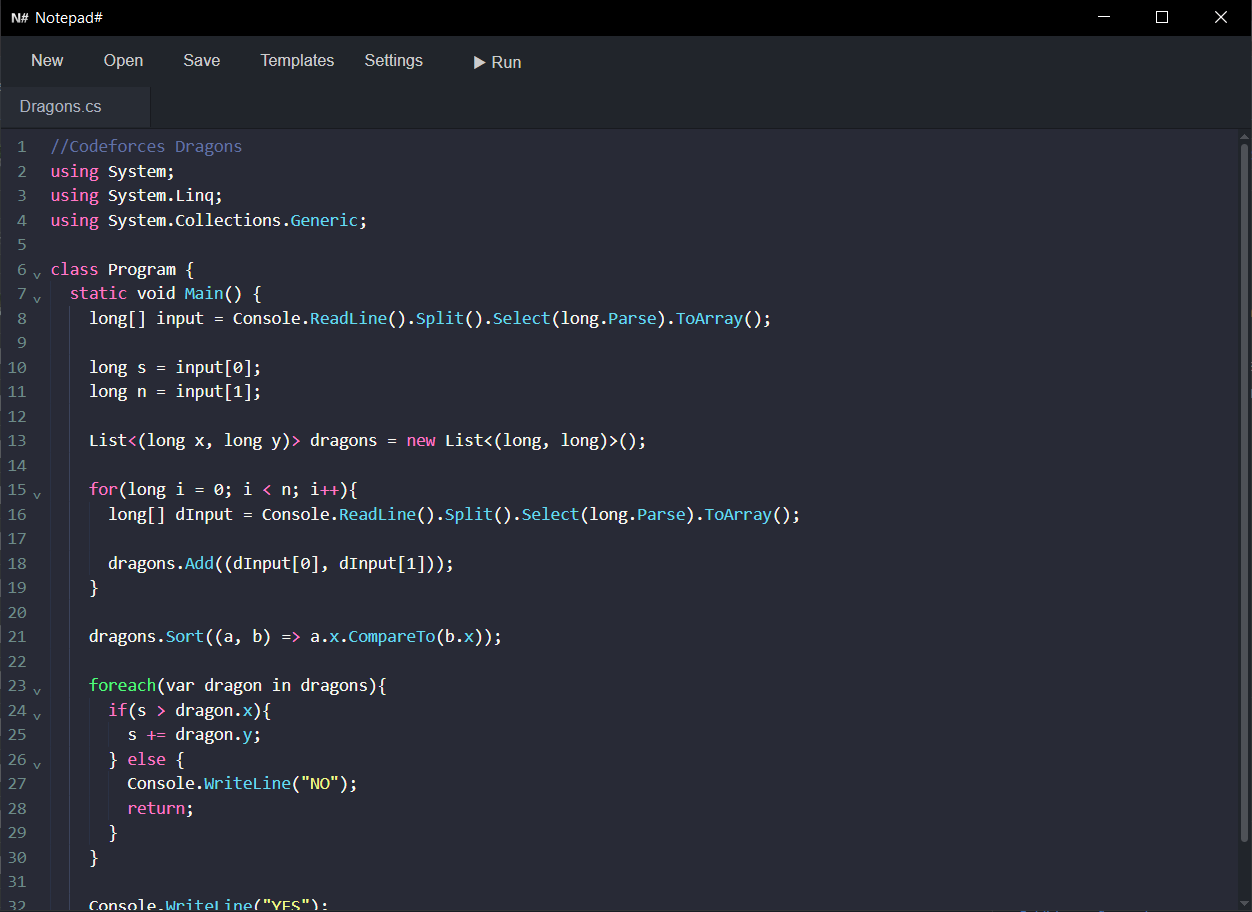
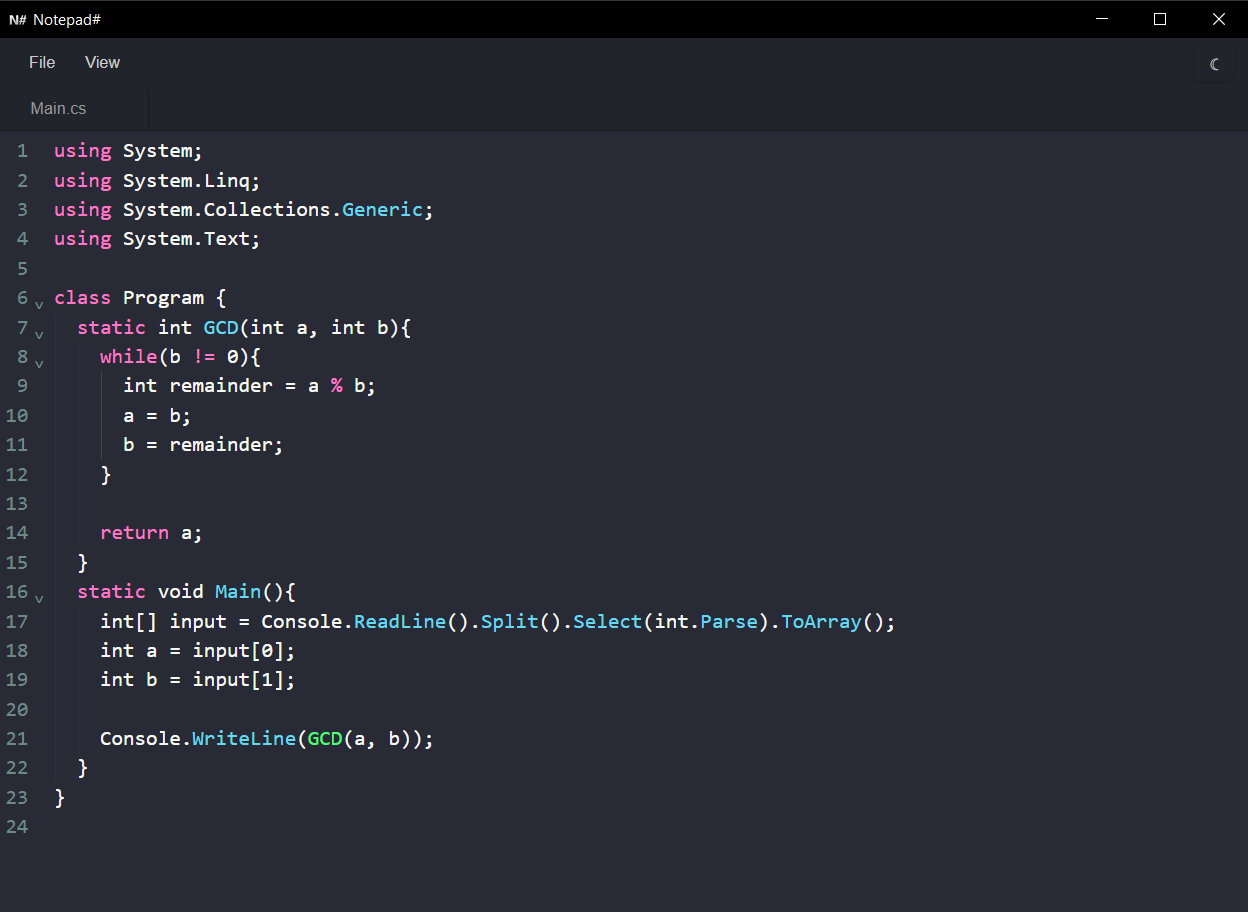
Update Final README for V.0.3.0

diff --git a/README.md b/README.md
@@ -1,27 +1,20 @@
 # Notepad-Sharp
 
-Notepad-Sharp is a lightweight desktop code notepad built with Vite, TypeScript and Tauri. It focuses on fast, distraction-free editing with multi-tab support, configurable templates, theme previews and a simple remote code runner powered by the public Piston API.
+Notepad# is a lightweight desktop code notepad built with Vite, TypeScript and Tauri. It focuses on fast, distraction-free editing with simple, familiar editor features and native file integration.
 
 ![Notepad-Sharp Preview](preview.png)
 
 Website: https://notepad-sharp.vercel.app/
 
-**Highlights & Features**
+## Features
 
-- Multi-tab editor with drag-to-reorder, rename, save status badges and per-tab cursor/scroll restore.
-- Syntax highlighting using CodeMirror 6 with language extensions (C/C++, Java, XML, basic fallbacks).
-- Built-in code templates (C#, C++, Python, Java) plus custom templates editable in the Settings modal.
-- Settings modal with template editing, add/delete custom templates, and theme preview/save (localStorage-backed).
-- Theme support: many CodeMirror themes are available via the theme selector and previewed live.
-- File operations via Tauri: open, save, rename, and file dialogs with useful filters.
-- Integrated code runner modal: send code to the Piston API, provide stdin, and view formatted output (compile/runtime handling included).
-- Useful editor features: undo/redo, indentation markers, fold gutter, line numbers, and zoom (font-size) controls.
-- Keyboard shortcuts: Ctrl+S (save), Ctrl+O (open), Ctrl+N (new tab), Ctrl+W (close), Ctrl+Tab (next tab), Alt+N (runner), Ctrl+3/4/5/6 (insert templates), F2 (rename), +=/- zoom.
+- Multi-tab editor with reorderable tabs (drag), rename, close, and per-tab cursor/scroll restore.
+- Syntax highlighting via CodeMirror 6 with language support for C/C++, Java, XML and additional fallbacks (plus a C# helper integration).
+- Two curated themes: **Dracula** (dark) and **GitHub Light** (light) with a toolbar theme toggle that switches the whole UI (toolbar, tabs, dropdowns, editor) between light and dark styles.
+- File operations powered by Tauri: Open, Save, Rename, and native file dialogs.
+- Editor niceties: undo/redo, fold gutter, indentation markers, line numbers, and zoom (font-size) controls.
+- Keyboard shortcuts: `Ctrl+S` (save), `Ctrl+O` (open), `Ctrl+N` (new tab), `Ctrl+W` (close active tab), `Ctrl+Tab` (next tab), `F2` (rename tab), `Ctrl+=`/`Ctrl+-` (zoom), `Ctrl+,` (toggle theme).
 
-Supported/Targeted languages for templates & runner
+## License
 
-- C# (template provided; execution shows a C# warning modal)
-- C/C++
-- Python
-- Java
-- Basic handling for XML and other filetypes (syntax fallback)
+This project is available under the license in `LICENSE`.
